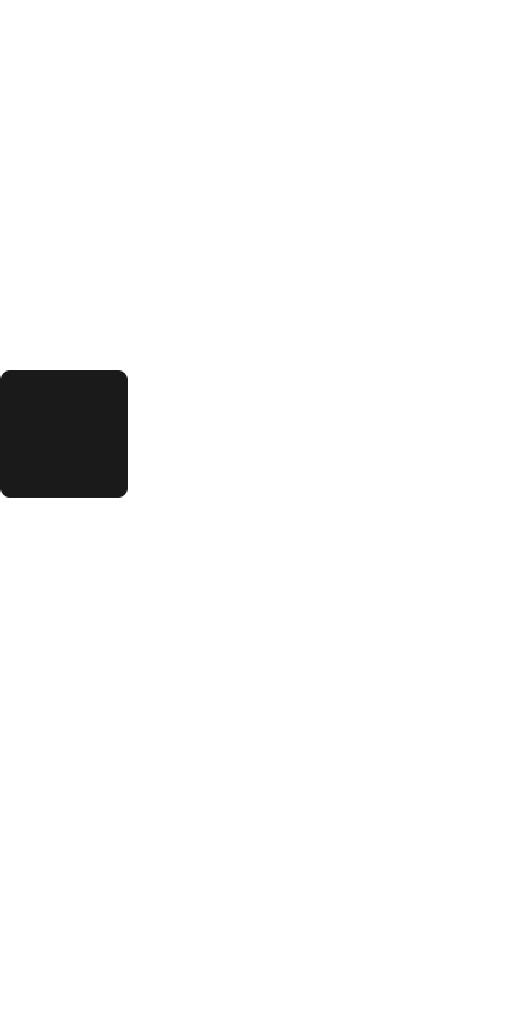
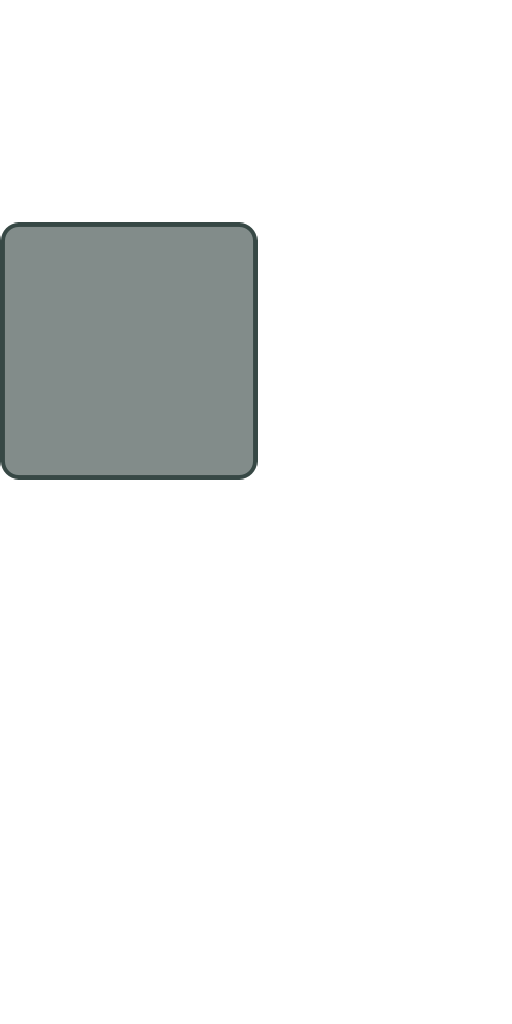
changes to player

Changed region(s): [[0.0, 0.2188, 0.5312, 0.5]]

diff --git a/app/src/main/java/net/masonapps/mediaplayervr/VideoPlayerScreen.java b/app/src/main/java/net/masonapps/mediaplayervr/VideoPlayerScreen.java
@@ -83,7 +83,7 @@ public class VideoPlayerScreen extends VrWorldScreen implements DaydreamControll
     private Vector3 translation = new Vector3();
     private boolean projectionChanged;
     private float rotCenterY = 0f;
-    private float sphereDiameter = 10f;
+    private float sphereDiameter = 50f;
     private Frustum frustum0 = new Frustum();
     private Frustum frustum1 = new Frustum();
     private ModelInstance eye0Instance;
@@ -201,55 +201,59 @@ public class VideoPlayerScreen extends VrWorldScreen implements DaydreamControll
             projectionChanged = true;
 
         if (projectionChanged) {
-//            if (videoPlayer.useFlatRectangle()) {
+            if (videoPlayer.useFlatRectangle()) {
                 leftCamera.projection.set(leftEye.getPerspective(leftCamera.near, leftCamera.far));
                 rightCamera.projection.set(rightEye.getPerspective(rightCamera.near, rightCamera.far));
-//            } else {
-////                leftCamera.projection.set(leftEye.getPerspective(leftCamera.near, leftCamera.far));
-////                rightCamera.projection.set(rightEye.getPerspective(rightCamera.near, rightCamera.far));
-//                setCameraProjection(leftEye, leftCamera);
-//                setCameraProjection(rightEye, rightCamera);
-//
-////                createVisualization();
-//            }
+            } else {
+//                leftCamera.projection.set(leftEye.getPerspective(leftCamera.near, leftCamera.far));
+//                rightCamera.projection.set(rightEye.getPerspective(rightCamera.near, rightCamera.far));
+                setCameraProjection(leftEye, leftCamera);
+                setCameraProjection(rightEye, rightCamera);
+
+//                createVisualization();
+            }
             projectionChanged = false;
         }
 
         final float ipdHalf = GdxVr.app.getGvrView().getInterpupillaryDistance() * ipd / 2f;
 //        if (videoPlayer.useFlatRectangle() || shouldRenderMono()) {
-//            setCameraViewFromEye(leftEye, leftCamera);
-//            updateCamera(leftCamera);
-//
-//            setCameraViewFromEye(rightEye, rightCamera);
-//            updateCamera(rightCamera);
+        setCameraViewFromEye(leftEye, leftCamera);
+        updateCamera(leftCamera);
+
+        setCameraViewFromEye(rightEye, rightCamera);
+        updateCamera(rightCamera);
 //
 //            leftCamera.projection.set(leftEye.getPerspective(leftCamera.near, leftCamera.far));
 //            rightCamera.projection.set(rightEye.getPerspective(rightCamera.near, rightCamera.far));
 //        } else {
 
-        headQuat.slerp(getHeadQuaternion(), 0.75f);
-            right.set(1, 0, 0).mul(headQuat);
-            up.set(0, 1, 0).mul(headQuat);
-            forward.set(0, 0, -1).mul(headQuat);
-//            final float a = getHeadQuaternion().getAngleAround(getForwardVector());
+//        headQuat.slerp(getHeadQuaternion(), 0.75f);
+//        right.set(1, 0, 0).mul(headQuat);
+//        up.set(0, 1, 0).mul(headQuat);
+//        forward.set(0, 0, -1).mul(headQuat);
+////            final float a = getHeadQuaternion().getAngleAround(getForwardVector());
+//
+//        tempV.set(right);
+//        tempV.y *= -1;
+//        translation.set(tempV.scl(-ipdHalf));
+////            translation.set(0, -rotCenterY, 0).rotate(Vector3.Z, a).add(0, rotCenterY, 0).add(tempV.set(getRightVector()).scl(-ipdHalf));
+//        leftCamera.view.setToLookAt(translation, tempV.set(translation).add(forward), up);
+//        updateCamera(leftCamera);
+//        
+//        tempV.set(right);
+//        tempV.y *= -1;
+//        translation.set(tempV.scl(ipdHalf));
+////            translation.set(0, -rotCenterY, 0).rotate(Vector3.Z, a).add(0, rotCenterY, 0).add(tempV.set(getRightVector()).scl(ipdHalf));
+//        rightCamera.view.setToLookAt(translation, tempV.set(translation).add(forward), up);
+//        updateCamera(rightCamera);
+////        }
 
-            translation.set(tempV.set(right).scl(-ipdHalf));
-//            translation.set(0, -rotCenterY, 0).rotate(Vector3.Z, a).add(0, rotCenterY, 0).add(tempV.set(getRightVector()).scl(-ipdHalf));
-            leftCamera.view.setToLookAt(translation, tempV.set(translation).add(forward), up);
-            updateCamera(leftCamera);
-
-            translation.set(tempV.set(right).scl(ipdHalf));
-//            translation.set(0, -rotCenterY, 0).rotate(Vector3.Z, a).add(0, rotCenterY, 0).add(tempV.set(getRightVector()).scl(ipdHalf));
-            rightCamera.view.setToLookAt(translation, tempV.set(translation).add(forward), up);
-            updateCamera(rightCamera);
-//        }
-        
         Viewport viewport = leftEye.getViewport();
         Gdx.gl.glViewport(viewport.x, viewport.y, viewport.width, viewport.height);
         getModelBatch().begin(leftCamera);
 
         videoPlayer.render(getModelBatch(), shouldRenderMono() ? Eye.Type.MONOCULAR : leftEye.getType());
-        
+
         getModelBatch().end();
 
         viewport = rightEye.getViewport();
@@ -257,7 +261,7 @@ public class VideoPlayerScreen extends VrWorldScreen implements DaydreamControll
         getModelBatch().begin(rightCamera);
 
         videoPlayer.render(getModelBatch(), shouldRenderMono() ? Eye.Type.MONOCULAR : rightEye.getType());
-        
+
         getModelBatch().end();
 
         onDrawEye(leftEye);
@@ -287,7 +291,7 @@ public class VideoPlayerScreen extends VrWorldScreen implements DaydreamControll
     private void setCameraViewFromEye(Eye eye, VrCamera camera) {
         final Vector3 position = camera.position;
         android.opengl.Matrix.setLookAtM(camera.view.getValues(), 0, position.x, position.y, position.z, position.x, position.y, position.z - 0.01f, 0f, 1f, 0f);
-        camera.view.mulLeft(tempM.set(eye.getEyeView()));
+        camera.view.set(eye.getEyeView());
     }
 
     private void setCameraProjection(Eye eye, VrCamera camera) {
@@ -298,25 +302,33 @@ public class VideoPlayerScreen extends VrWorldScreen implements DaydreamControll
 
         rotCenterY = (top + bottom) / 2f;
 
-        final float side = (-l + r) / 2f;
+//        final float side = (-l + r) / 2f;
         float left;
         float right;
-        final float defaultIpd = GdxVr.app.getGvrView().getInterpupillaryDistance();
-        final float ipdHalf = defaultIpd * ipd / 2f;
-        final float defaultShift = Math.abs(r - side);
-        final float screenZ = (defaultIpd * 0.5f * camera.near) / defaultShift;
-        sphereDiameter = 10f;
-//        final float screenZ = sphereDiameter * 0.75f;
-//        Log.d("setCameraProjection", (eye.getType() == Eye.Type.LEFT ? "left" : "right") + "eye");
-//        Log.d("setCameraProjection", "screenZ = " + screenZ + "m");
-        final float shift = ipdHalf * camera.near / screenZ;
-//        Log.d("setCameraProjection", "defaultShift = " + defaultShift + ", shift = " + shift);
+//        final float defaultIpd = GdxVr.app.getGvrView().getInterpupillaryDistance();
+//        final float ipdHalf = defaultIpd * ipd / 2f;
+//        final float defaultShift = Math.abs(r - side);
+//        final float screenZ = (defaultIpd * 0.5f * camera.near) / defaultShift;
+//        sphereDiameter = 10f;
+////        final float screenZ = sphereDiameter * 0.75f;
+////        Log.d("setCameraProjection", (eye.getType() == Eye.Type.LEFT ? "left" : "right") + "eye");
+////        Log.d("setCameraProjection", "screenZ = " + screenZ + "m");
+//        final float shift = ipdHalf * camera.near / screenZ;
+////        Log.d("setCameraProjection", "defaultShift = " + defaultShift + ", shift = " + shift);
+//        if (eye.getType() == Eye.Type.LEFT) {
+//            left = -side + shift;
+//            right = side + shift;
+//        } else {
+//            left = -side - shift;
+//            right = side - shift;
+//        }
+        final float shift = (ipd - 1f) * 0.1f;
         if (eye.getType() == Eye.Type.LEFT) {
-            left = -side + shift;
-            right = side + shift;
+            left = l + shift;
+            right = r + shift;
         } else {
-            left = -side - shift;
-            right = side - shift;
+            left = l - shift;
+            right = r - shift;
         }
         camera.projection.setToProjection(left / zoom, right / zoom, bottom / zoom, top / zoom, camera.near, camera.far);
     }
@@ -432,7 +444,6 @@ public class VideoPlayerScreen extends VrWorldScreen implements DaydreamControll
     public void setIpd(float ipd) {
         this.ipd = MathUtils.clamp(ipd, -1f, 2f);
         projectionChanged = true;
-//        videoPlayer.set3dShift(ipd);
     }
 
     public void exit() {

diff --git a/app/src/main/java/net/masonapps/mediaplayervr/video/VrVideoPlayer.java b/app/src/main/java/net/masonapps/mediaplayervr/video/VrVideoPlayer.java
@@ -57,7 +57,6 @@ public abstract class VrVideoPlayer implements Disposable, SurfaceTexture.OnFram
     private Vector2 stretch = new Vector2();
     private Rectangle srcRect = new Rectangle(0, 0, 1, 1);
     private Rectangle dstRect = new Rectangle(0, 0, 1, 1);
-    private float shift = 0f;
     private Quaternion headRotation = new Quaternion();
     private Quaternion invHeadRotation = new Quaternion();
     private float zoom = 1f;
@@ -193,7 +192,7 @@ public abstract class VrVideoPlayer implements Disposable, SurfaceTexture.OnFram
                     } else {
                         shader.setSrcRect(srcRect.x, srcRect.y, srcRect.width, srcRect.height * 0.5f);
                     }
-                    shader.setDstRect(dstRect.x - shift, dstRect.y, dstRect.width, dstRect.height);
+                    shader.setDstRect(dstRect.x, dstRect.y, dstRect.width, dstRect.height);
                     break;
                 case Eye.Type.RIGHT:
                     if (isHorizontalSplit) {
@@ -201,7 +200,7 @@ public abstract class VrVideoPlayer implements Disposable, SurfaceTexture.OnFram
                     } else {
                         shader.setSrcRect(srcRect.x, srcRect.y + 0.5f, srcRect.width, srcRect.height * 0.5f);
                     }
-                    shader.setDstRect(dstRect.x + shift, dstRect.y, dstRect.width, dstRect.height);
+                    shader.setDstRect(dstRect.x, dstRect.y, dstRect.width, dstRect.height);
                     break;
                 default:
                     if (isHorizontalSplit) {
@@ -209,7 +208,7 @@ public abstract class VrVideoPlayer implements Disposable, SurfaceTexture.OnFram
                     } else {
                         shader.setSrcRect(srcRect.x, srcRect.y, srcRect.width, srcRect.height * 0.5f);
                     }
-                    shader.setDstRect(dstRect.x - shift, dstRect.y, dstRect.width, dstRect.height);
+                    shader.setDstRect(dstRect.x, dstRect.y, dstRect.width, dstRect.height);
                     break;
             }
         } else {
@@ -399,10 +398,6 @@ public abstract class VrVideoPlayer implements Disposable, SurfaceTexture.OnFram
                 updateAspectRatio();
                 break;
         }
-    }
-
-    public void set3dShift(float shift) {
-        this.shift = shift * 0.5f;
     }
 
     public abstract void seekTo(long position);

diff --git a/app/src/main/java/net/masonapps/mediaplayervr/video/ui/PlaybackSettingsLayout.java b/app/src/main/java/net/masonapps/mediaplayervr/video/ui/PlaybackSettingsLayout.java
@@ -110,27 +110,27 @@ public class PlaybackSettingsLayout extends SingleStageUi {
         table.add(yRight).pad(padding).row();
         setVisible(false);
 
-        final ImageButton shiftLeft = new ImageButton(leftButtonStyle);
-        shiftLeft.addListener(new ClickListener() {
-            @Override
-            public void clicked(InputEvent event, float x, float y) {
-                shift -= STEP;
-                player.set3dShift(shift);
-            }
-        });
-        table.add(shiftLeft).pad(padding);
-
-        table.add(new Label(" Shift ", skin)).pad(padding);
-
-        final ImageButton shiftRight = new ImageButton(rightButtonStyle);
-        shiftRight.addListener(new ClickListener() {
-            @Override
-            public void clicked(InputEvent event, float x, float y) {
-                shift += STEP;
-                player.set3dShift(shift);
-            }
-        });
-        table.add(shiftRight).pad(padding).row();
+//        final ImageButton shiftLeft = new ImageButton(leftButtonStyle);
+//        shiftLeft.addListener(new ClickListener() {
+//            @Override
+//            public void clicked(InputEvent event, float x, float y) {
+//                shift -= STEP;
+//                player.set3dShift(shift);
+//            }
+//        });
+//        table.add(shiftLeft).pad(padding);
+//
+//        table.add(new Label(" Shift ", skin)).pad(padding);
+//
+//        final ImageButton shiftRight = new ImageButton(rightButtonStyle);
+//        shiftRight.addListener(new ClickListener() {
+//            @Override
+//            public void clicked(InputEvent event, float x, float y) {
+//                shift += STEP;
+//                player.set3dShift(shift);
+//            }
+//        });
+//        table.add(shiftRight).pad(padding).row();
         setVisible(false);
 
         final TextButton resetBtn = new TextButton("reset", skin);
@@ -141,7 +141,7 @@ public class PlaybackSettingsLayout extends SingleStageUi {
                 player.setStretch(stretch);
                 videoOptions.textureStretch.set(stretch);
                 shift = 0;
-                player.set3dShift(shift);
+//                player.set3dShift(shift);
             }
         });
         table.add(resetBtn).pad(padding).colspan(3).row();
